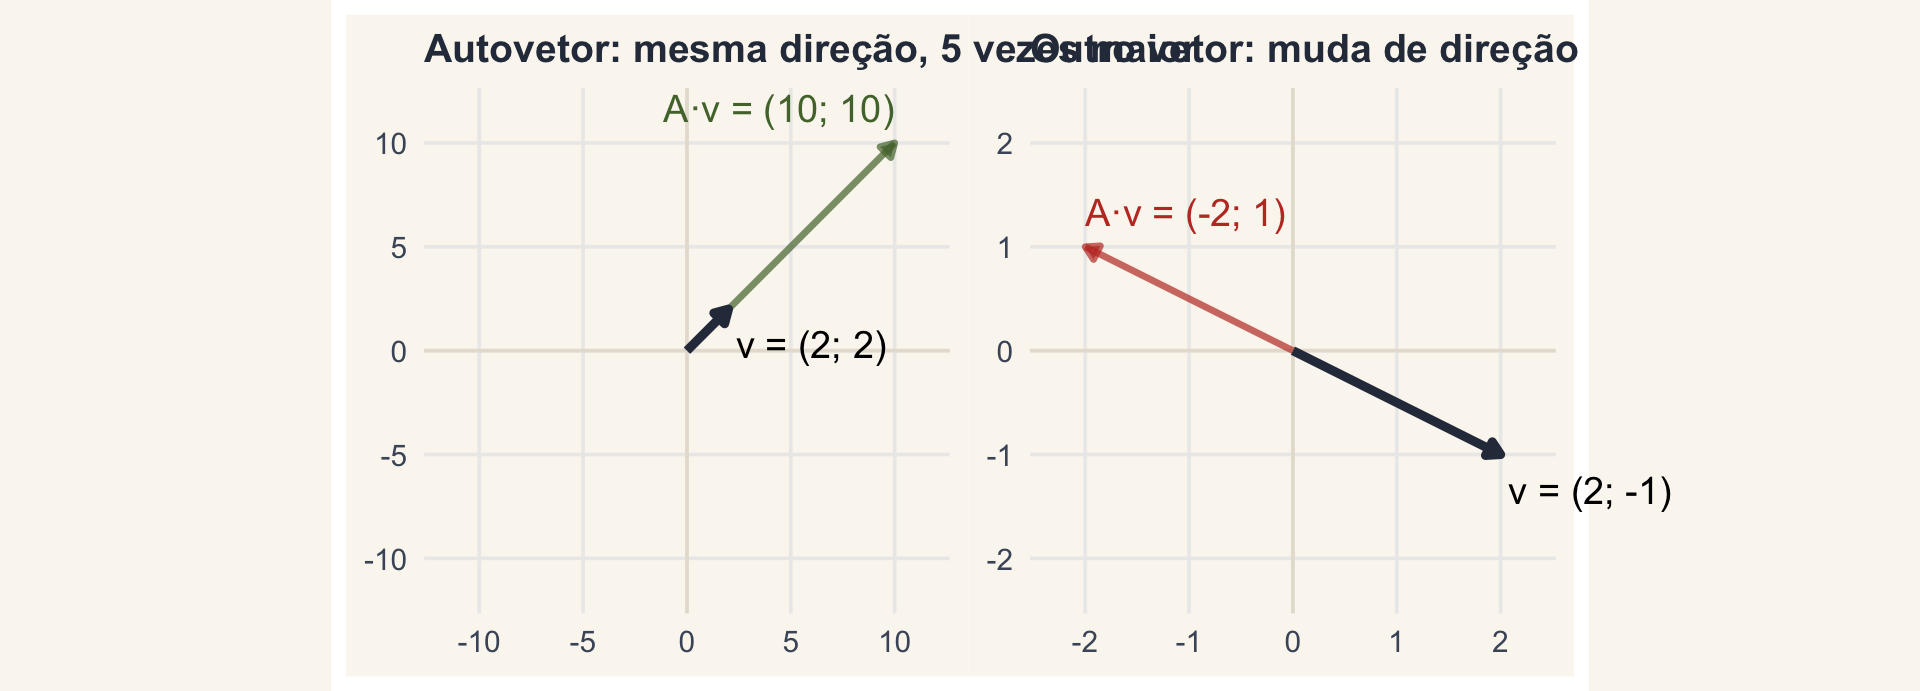
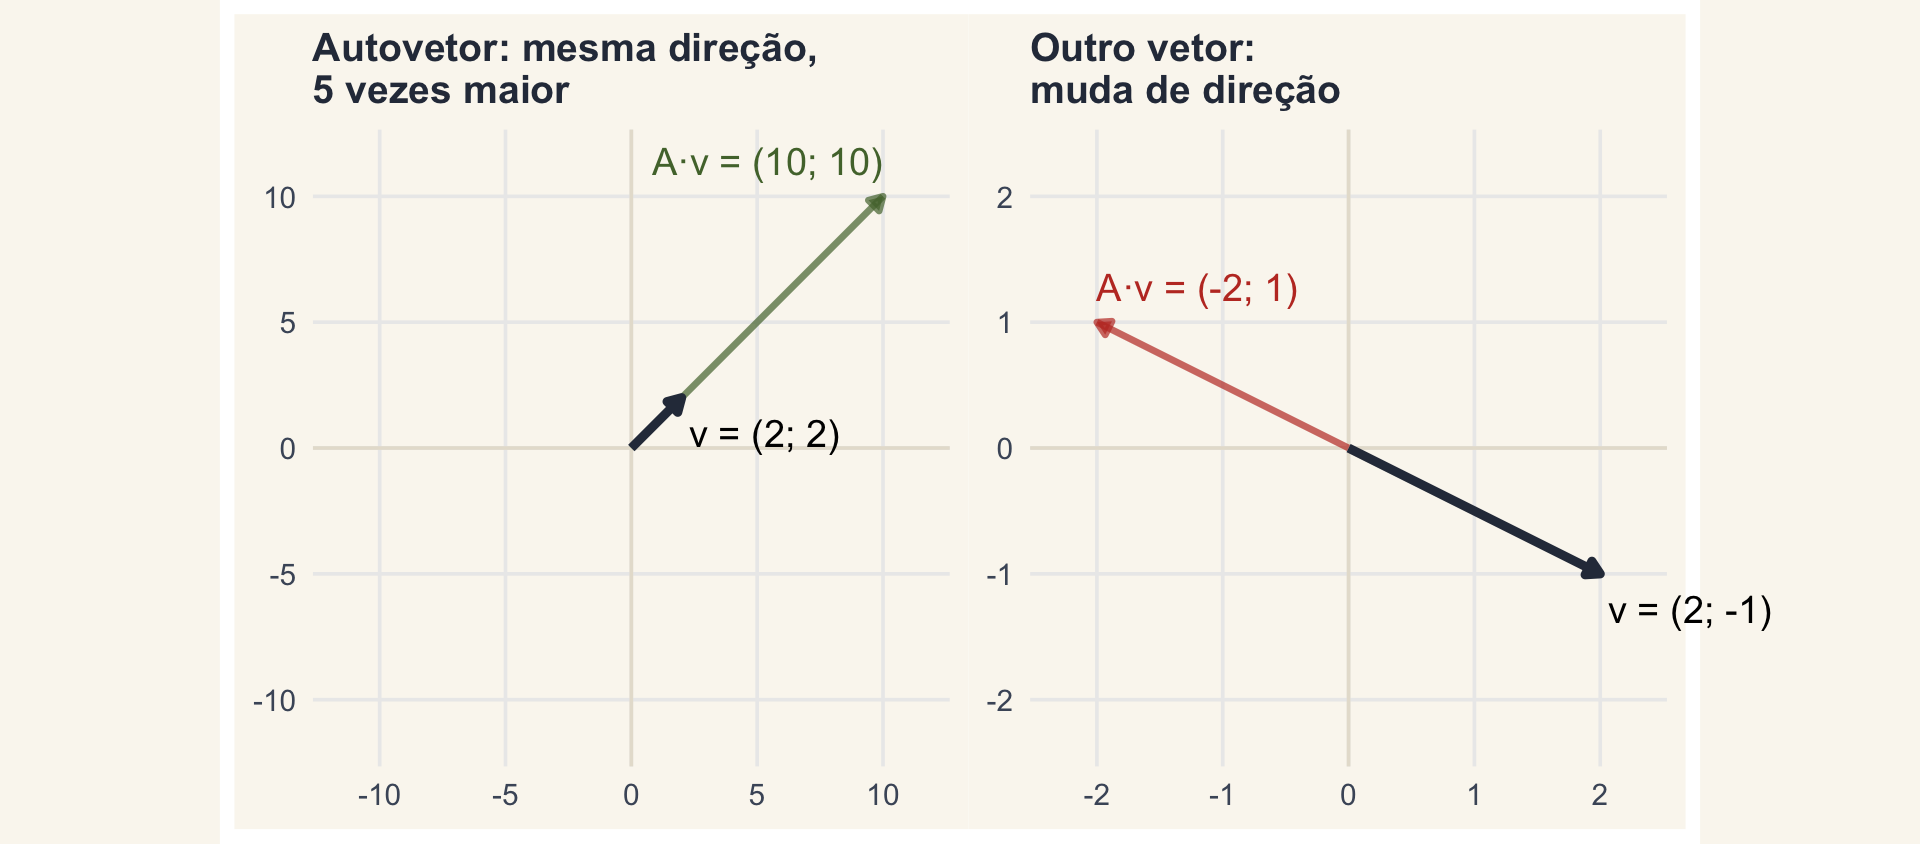
Aula 01: meme com A Liberdade guiando o povo, link do Setosa, exemplo do autovetor em dois slides sem sobreposição

diff --git a/assets/memes/FONTES.md b/assets/memes/FONTES.md
@@ -35,7 +35,7 @@ Baixadas em 2026-10-18; licença conferida no `LicenseShortName` da API do Commo
 | `enxada.jpg` | [File:Millet, Jean-François - Man with a Hoe - Google Art Project.jpg](https://commons.wikimedia.org/wiki/File:Millet,_Jean-Fran%C3%A7ois_-_Man_with_a_Hoe_-_Google_Art_Project.jpg) | Jean-François Millet (1860–1862) | Public domain | 6 |
 | `cegos.jpg` | [File:Pieter Bruegel the Elder - The Parable of the Blind Leading the Blind - WGA3511.jpg](https://commons.wikimedia.org/wiki/File:Pieter_Bruegel_the_Elder_-_The_Parable_of_the_Blind_Leading_the_Blind_-_WGA3511.jpg) | Pieter Bruegel, o Velho (1568) | Public domain | 1 |
 | `feijao.jpg` | [File:Annibale Carracci - The Beaneater - WGA04408.jpg](https://commons.wikimedia.org/wiki/File:Annibale_Carracci_-_The_Beaneater_-_WGA04408.jpg) | Annibale Carracci (c. 1580–1590) | Public domain | 1 |
-| `aula-danca.jpg` | [File:The Dance Class MET DT46.jpg](https://commons.wikimedia.org/wiki/File:The_Dance_Class_MET_DT46.jpg) | Edgar Degas (1874), The Metropolitan Museum of Art | CC0 | 1 |
+| `liberdade.jpg` | [File:Eugène Delacroix - La liberté guidant le peuple.jpg](https://commons.wikimedia.org/wiki/File:Eug%C3%A8ne_Delacroix_-_La_libert%C3%A9_guidant_le_peuple.jpg) | Eugène Delacroix (1830), Museu do Louvre | Public domain | 1 |
 | `raleigh.jpg` | [File:John Everett Millais (1829-1896) - The Boyhood of Raleigh - N01691 - National Gallery.jpg](https://commons.wikimedia.org/wiki/File:John_Everett_Millais_(1829-1896)_-_The_Boyhood_of_Raleigh_-_N01691_-_National_Gallery.jpg) | John Everett Millais (1870), Tate | Public domain | 1 |
 | `ennui.jpg` | [File:Sickert, Ennui.jpg](https://commons.wikimedia.org/wiki/File:Sickert,_Ennui.jpg) | Walter Sickert (c. 1914) | Public domain | 1 |
 | `filosofo.jpg` | [File:Rembrandt - The Philosopher in Meditation (cleaned).jpg](https://commons.wikimedia.org/wiki/File:Rembrandt_-_The_Philosopher_in_Meditation_(cleaned).jpg) | Rembrandt (1632) | Public domain | 1 |

diff --git a/CLAUDE.md b/CLAUDE.md
@@ -134,7 +134,7 @@ Quase 60 slides citam Legendre. Tratamento:
   (Velázquez), *O desesperado* (Courbet) e *No café* (Degas) (3), *Sísifo*
   (Ticiano), *A lição de anatomia* (Rembrandt), *A cartomante* (La Tour) e
   *O sono da razão* (Goya) (5), *O homem com a enxada* (Millet) (6), *A parábola dos cegos* (Bruegel),
-  *O comedor de feijão* (Carracci), *A aula de dança* (Degas),
+  *O comedor de feijão* (Carracci), *A Liberdade guiando o povo* (Delacroix, a pintura favorita do Diogo),
   *A infância de Raleigh* (Millais), *Tédio* (Sickert), *Filósofo em meditação*
   (Rembrandt), *A escola da aldeia* (Steen) e *O almoço dos barqueiros* (Renoir) (1).
 - `R/mapa.R`: `mapa_plot(destaque = NULL, perguntas = TRUE)`.
